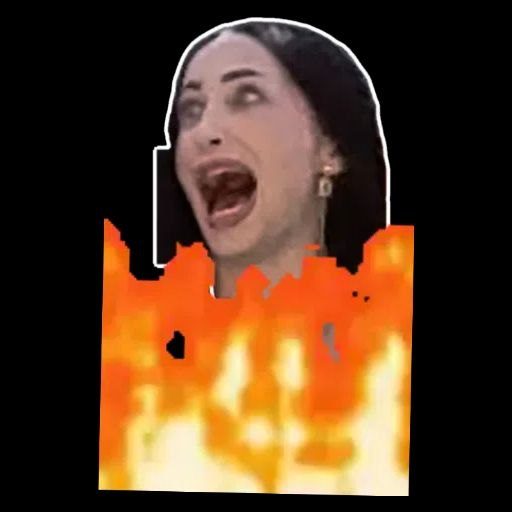
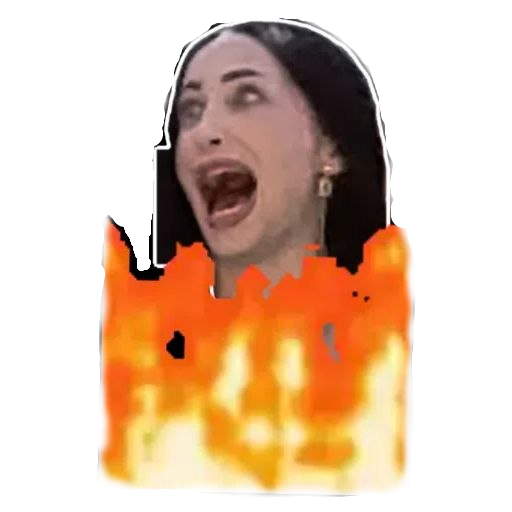
add foto loss

diff --git a/index.html b/index.html
@@ -5,7 +5,7 @@
     <meta name="viewport" content="width=device-width, initial-scale=1.0, maximum-scale=1.0, user-scalable=no">
     <title>Sladenkaya Coin Pro</title>
     
-    <script src="https://telegram.org/js/telegram-web-app.js?v=final1.2"></script>
+    <script src="https://telegram.org/js/telegram-web-app.js?v=final1.3"></script>
     
     <link href="https://fonts.googleapis.com/css2?family=Comfortaa:wght@700&display=swap" rel="stylesheet">
     